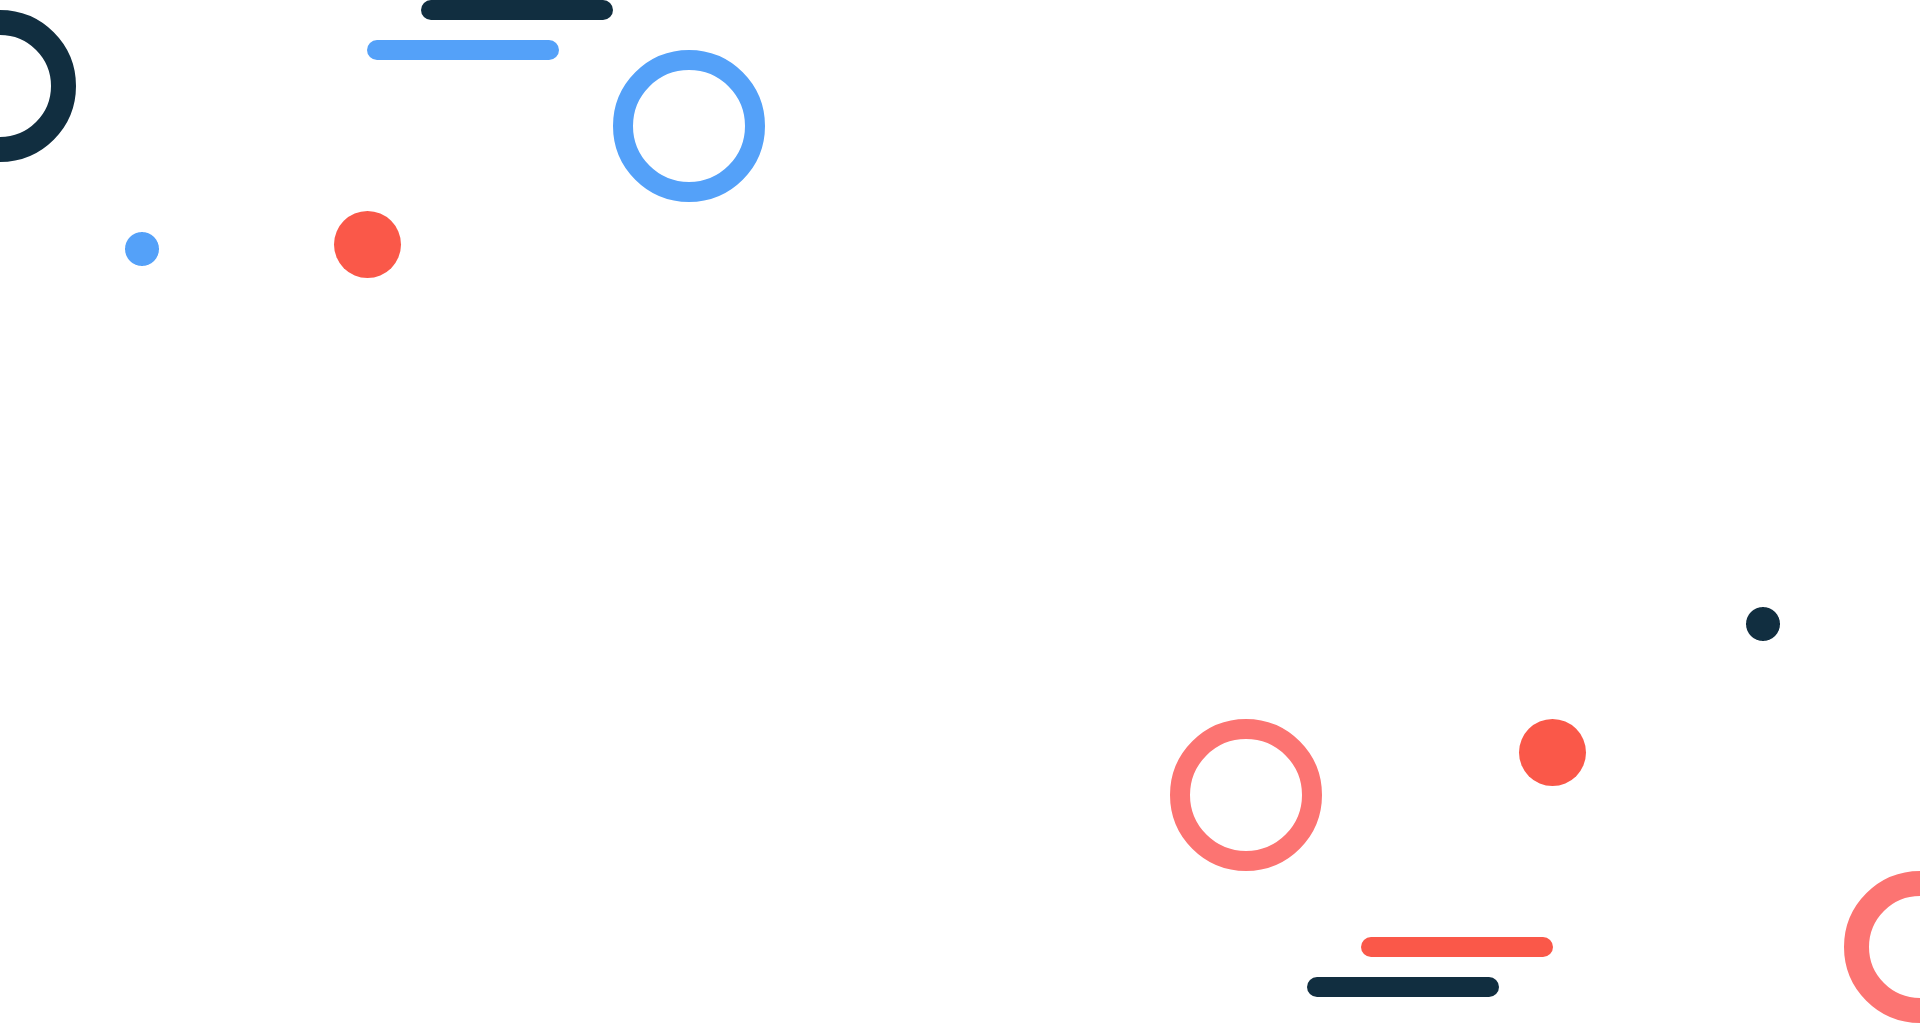
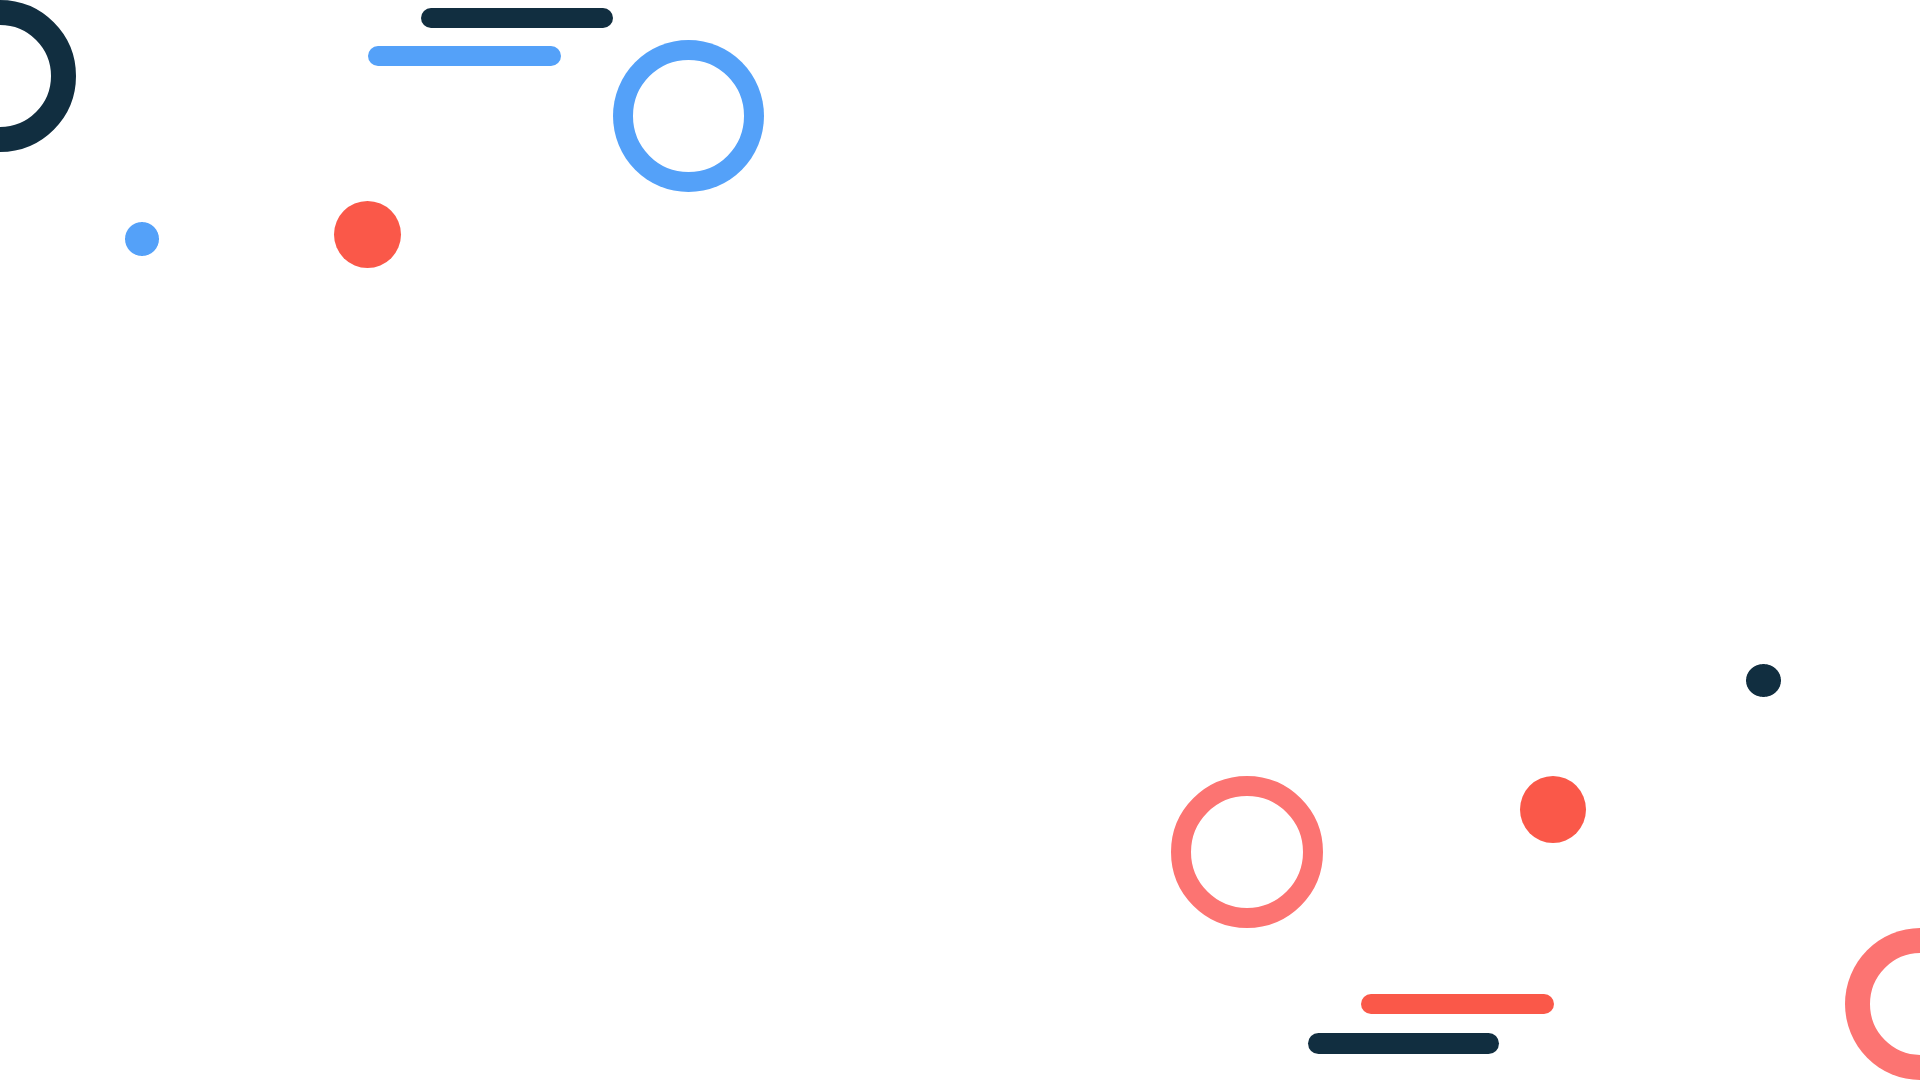
implement header

diff --git a/styles/header.css b/styles/header.css
@@ -1,0 +1,42 @@
+.header {
+  display: flex;
+  justify-content: center;
+  align-items: center;
+  position: relative;
+  height: 100vh;
+  width: 100%;
+  background-image: url("../images/header/background-fluid.png");
+  background-size: cover;
+  background-repeat: no-repeat;
+  background-position: center;
+}
+
+.pattern1 {
+  height: 100vh;
+  width: 100%;
+  background-image: url("../images/header/background-pattern1.png");
+  background-repeat: no-repeat;
+  position: absolute;
+  top: 0%;
+  left: 0%;
+}
+
+.pattern2 {
+  height: 100vh;
+  width: 100%;
+  background-image: url("../images/header/background-pattern2.png");
+  background-repeat: no-repeat;
+  background-position: bottom right;
+  position: absolute;
+  bottom: 0%;
+  right: 0%;
+}
+
+.title {
+  position: absolute;
+  top: 20%;
+  left: 12%;
+  font-size: 108px;
+  font-weight: bold;
+  line-height: 1.2;
+}

diff --git a/index.html b/index.html
@@ -4,9 +4,19 @@
   <meta charset="UTF-8">
   <meta http-equiv="X-UA-Compatible" content="IE=edge">
   <meta name="viewport" content="width=device-width, initial-scale=1.0">
+  <link rel="stylesheet" href="./styles/style.css">
+  <link rel="stylesheet" href="./styles/sanitize.css">
+  <link rel="stylesheet" href="./styles/header.css">
   <title>Tomoya Tanaka</title>
 </head>
 <body>
-  
+  <div class="header">
+    <div class="pattern1"></div>
+    <div class="pattern2"></div>
+    <h1 class="title">
+      WELCOME TO <br/>
+      MY PORTFOLIO
+    </h1>
+  </div>
 </body>
 </html>
